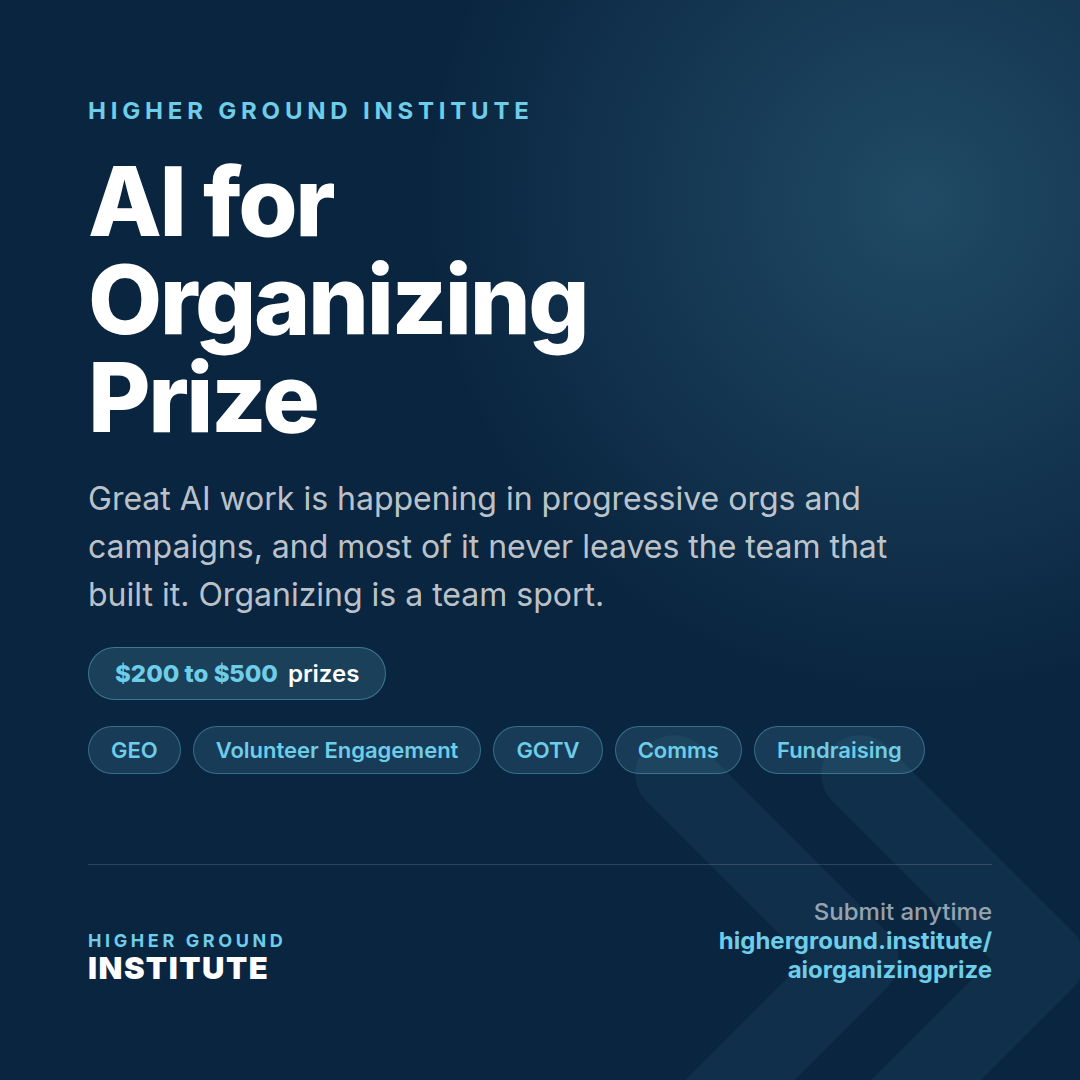
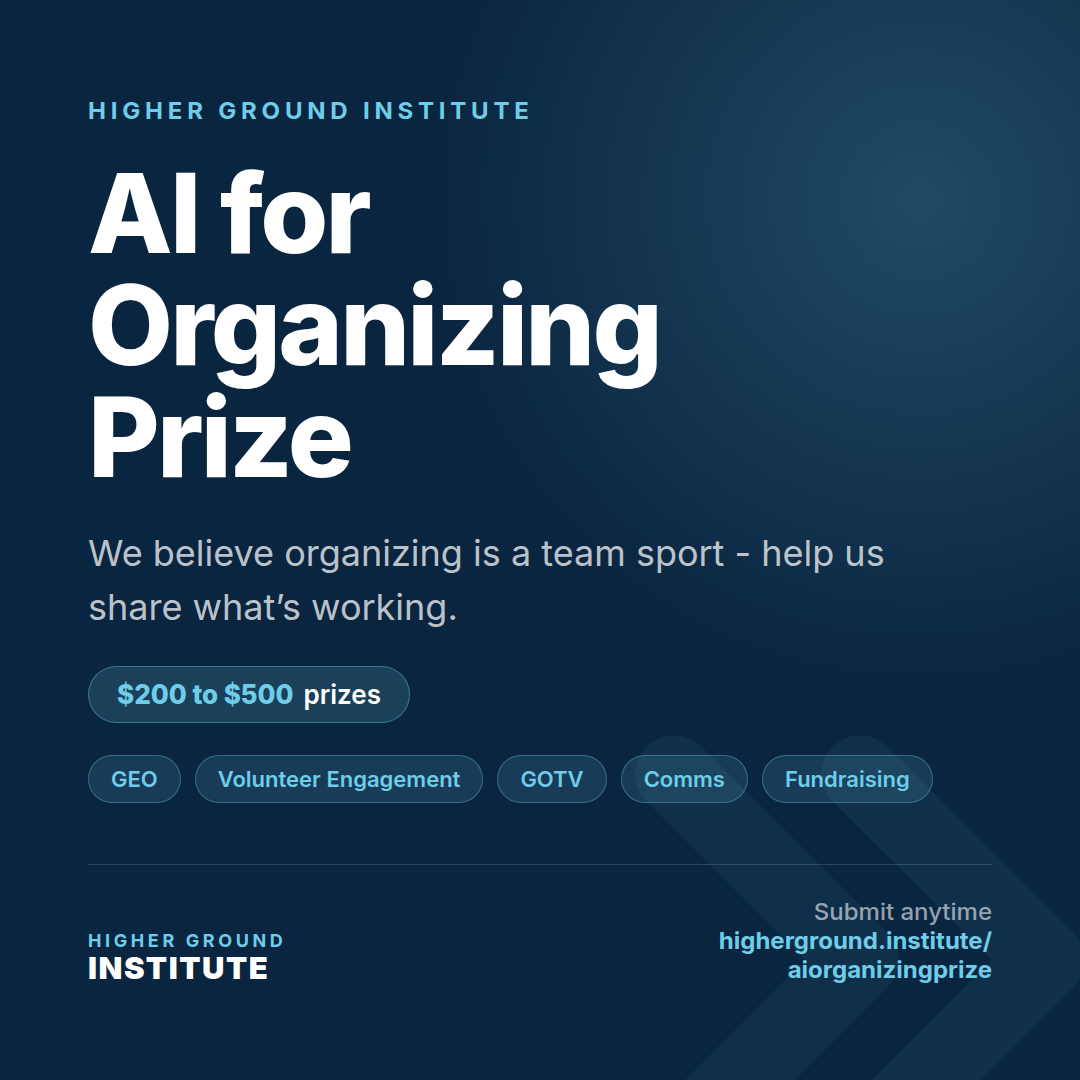
Update prize social cards to team sport line
Claude-Session: https://claude.ai/code/session_01Eb8euinG8R1LuD6qbF5gaK

Changed region(s): [[0.0611, 0.1528, 0.8556, 0.7333]]

diff --git a/aiorganizingprize/index.html b/aiorganizingprize/index.html
@@ -11,7 +11,7 @@
   <!-- Open Graph -->
   <meta property="og:site_name" content="Higher Ground Institute">
   <meta property="og:title" content="AI for Organizing Prize">
-  <meta property="og:description" content="Great AI work is happening in progressive orgs and campaigns, and most of it never leaves the team that built it. Organizing is a team sport. Tell us what you made. Prizes of $200 to $500, rolling review.">
+  <meta property="og:description" content="We believe organizing is a team sport, so help us share what&#39;s working. Send us the prompts, skills, apps, and workflows you built with AI. Prizes of $200 to $500, rolling review.">
   <meta property="og:type" content="website">
   <meta property="og:url" content="https://higherground.institute/aiorganizingprize/">
   <meta property="og:image" content="https://higherground.institute/aiorganizingprize/og-image.png">
@@ -19,13 +19,13 @@
   <meta property="og:image:type" content="image/png">
   <meta property="og:image:width" content="1200">
   <meta property="og:image:height" content="630">
-  <meta property="og:image:alt" content="AI for Organizing Prize, a Higher Ground Institute program. Great AI work is happening in progressive orgs and campaigns, and most of it never leaves the team that built it. Organizing is a team sport. Prizes of $200 to $500. Categories: GEO, Volunteer Engagement, GOTV, Comms, Fundraising.">
+  <meta property="og:image:alt" content="AI for Organizing Prize, a Higher Ground Institute program. We believe organizing is a team sport, so help us share what&#39;s working. Prizes of $200 to $500. Categories: GEO, Volunteer Engagement, GOTV, Comms, Fundraising.">
   <meta property="og:locale" content="en_US">
 
   <!-- Twitter / X -->
   <meta name="twitter:card" content="summary_large_image">
   <meta name="twitter:title" content="AI for Organizing Prize">
-  <meta name="twitter:description" content="Great AI work is happening in progressive orgs and campaigns, and most of it never leaves the team that built it. Organizing is a team sport. Tell us what you made. Prizes of $200 to $500, rolling review.">
+  <meta name="twitter:description" content="We believe organizing is a team sport, so help us share what&#39;s working. Send us the prompts, skills, apps, and workflows you built with AI. Prizes of $200 to $500, rolling review.">
   <meta name="twitter:image" content="https://higherground.institute/aiorganizingprize/og-image.png">
   <meta name="twitter:image:alt" content="AI for Organizing Prize, a Higher Ground Institute program.">
 
